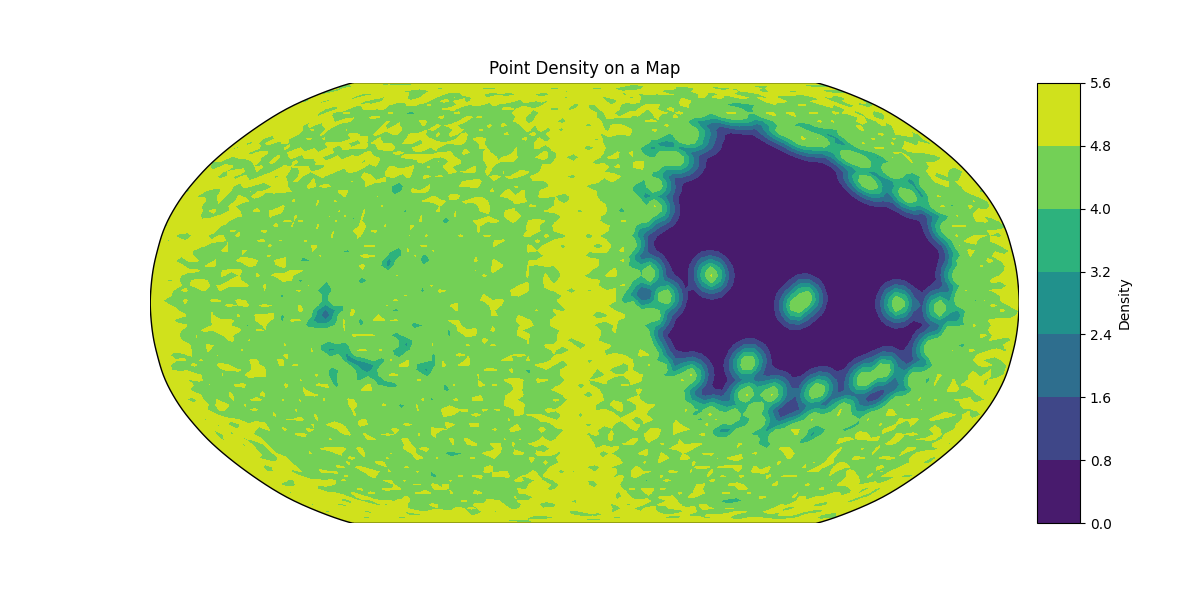
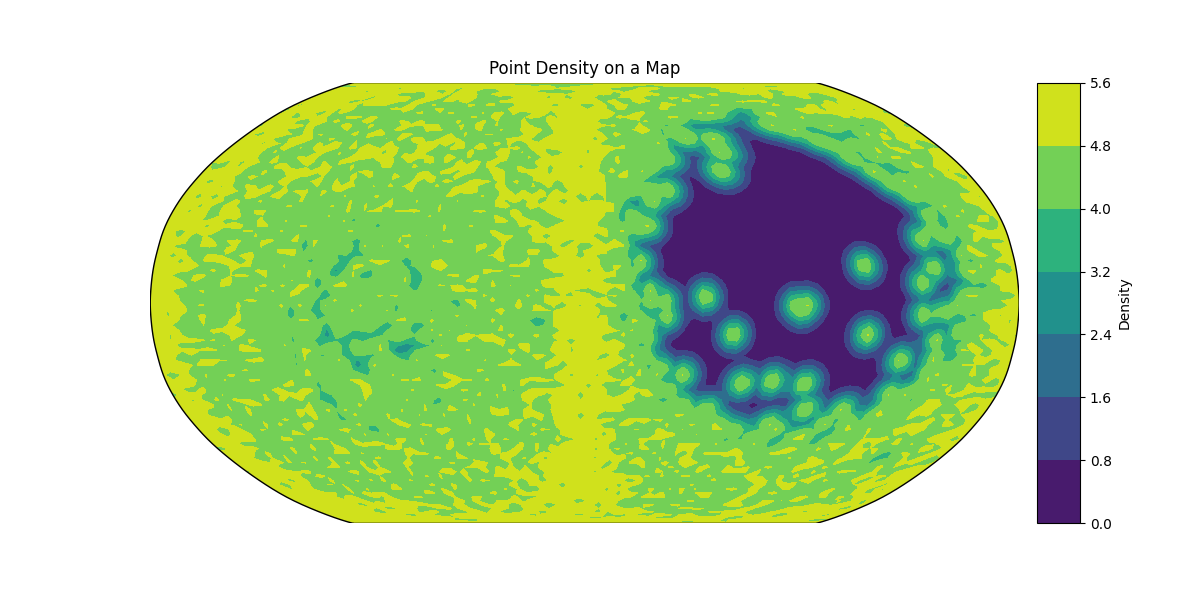
make more results and use 10k samples for all datasets

Changed region(s): [[0.1233, 0.12, 0.8633, 0.87]]

diff --git a/visualize_3d_vectors.py b/visualize_3d_vectors.py
@@ -45,6 +45,8 @@ def rule_of_thumb_bandwidth(points):
     return bandwidth
 
 def load_vectors(npzpath, samples=1000):
+    if npzpath.endswith('.npy'):
+        return np.load(npzpath).reshape(-1, 3)
     npfile = np.load(npzpath, allow_pickle=True)
 
     # for mmhuman3d human data
@@ -65,7 +67,7 @@ def rotate_basis(vectors, basis=[0, 0, 1]):
 def main():
     parser = argparse.ArgumentParser(description='npz file path to be analyzed')
     parser.add_argument('--npz_path', help='the npz file to be analysed')
-    parser.add_argument('--samples', default=1000, type=int, help='the number of samples to create the densities')
+    parser.add_argument('--samples', default=10000, type=int, help='the number of samples to create the densities')
     args = parser.parse_args()
     vectors = rotate_basis(load_vectors(args.npz_path, samples=args.samples))
     # visualize_3d_vectors(vectors)
